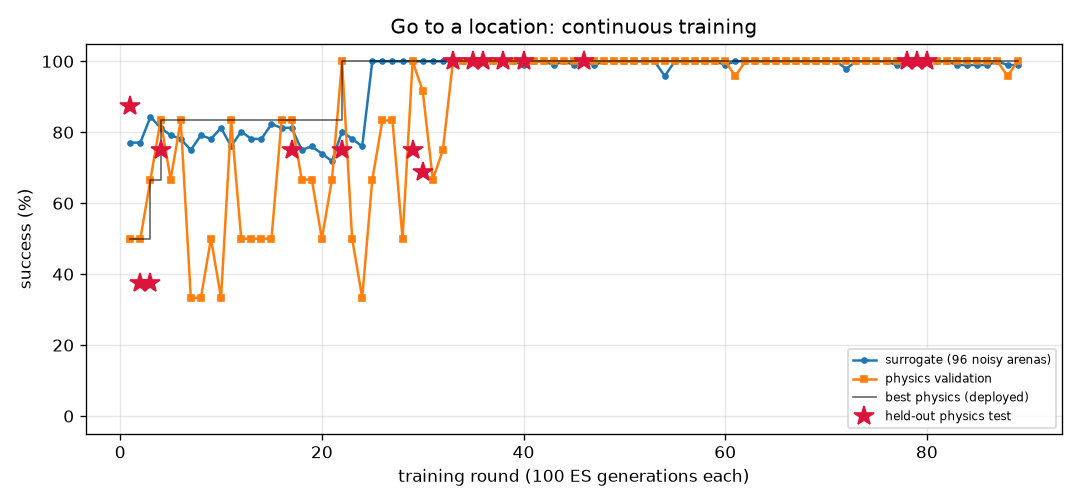
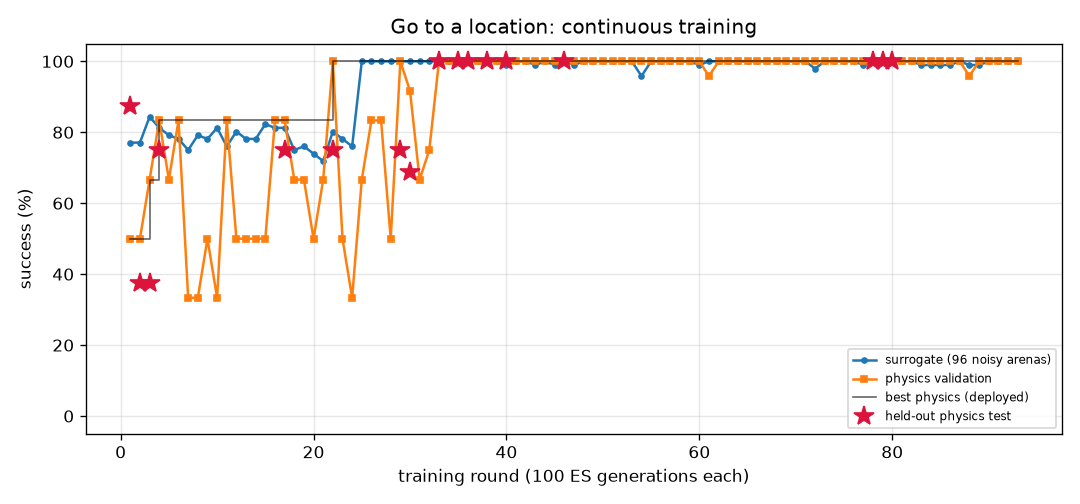
FlyLab: continuous training progress
- walk_forward: optimal, physics val 100% of 24, round 96
- turn: optimal, physics val 100% of 24, round 449
- goto: optimal, physics val 100% of 24, round 93
- odor_seek: optimal, physics val 100% of 24, round 94
- odor_avoid: optimal, physics val 100% of 24, round 484
- light_seek: optimal, physics val 100% of 24, round 282
- light_avoid: optimal, physics val 100% of 24, round 227

diff --git a/projects/09_flylab/training/goto/REPORT.md b/projects/09_flylab/training/goto/REPORT.md
@@ -1,14 +1,14 @@
 # Go to a location (`goto`) — training report
 
-*Auto-generated by `train_brains.py`, last updated 2026-10-14T23:34:05.*
+*Auto-generated by `train_brains.py`, last updated 2026-10-15T22:34:26.*
 
 ![curve](curve.png)
 
 | | |
 |---|---|
-| rounds | 89 |
-| ES generations | 8900 |
-| physics runs | 2022 |
+| rounds | 93 |
+| ES generations | 9300 |
+| physics runs | 2118 |
 | status | **optimal** |
 | best brain | round 80: physics validation **100%** on 24 arenas, surrogate 100% |
 | held-out physics test | **100%** on 32 unseen arenas (95% CI 89%-100%) (errors: [0.36, 0.41, 0.3, 0.45, 0.32, 0.33, 0.33, 0.31, 0.35, 0.36, 0.39, 0.36, 0.28, 0.31, 0.4, 0.39, 0.34, 0.39, 0.3, 0.34, 0.36, 0.36, 0.44, 0.34, 0.3, 0.33, 0.4, 0.33, 0.29, 0.43, 0.43, 0.39]) |
@@ -17,10 +17,6 @@ Physics error per arena: mm from target at the end (< 1.5 and standing still = s
 
 | round | level | gens | sigma | surrogate | physics val | val errors | test | note |
 |---:|---:|---:|---:|---:|---:|---|---:|---|
-| 50 | 3 | 5000 | 0.024 | 100% | 100% | [0.48, 0.46, 0.34, 0.39, 0.36, 0.37, 0.49, 0.39, 0.41, 0.36, 0.33, 0.38, 0.45, 0.35, 0.43, 0.43, 0.45, 0.37, 0.34, 0.41, 0.4, 0.35, 0.44, 0.37] |  | restart from best |
-| 51 | 3 | 5100 | 0.024 | 100% | 100% | [0.64, 0.58, 0.45, 0.54, 0.43, 0.5, 0.6, 0.46, 0.58, 0.46, 0.51, 0.53, 0.6, 0.45, 0.47, 0.51, 0.63, 0.54, 0.45, 0.56, 0.49, 0.46, 0.62, 0.51] |  |  |
-| 52 | 3 | 5200 | 0.024 | 100% | 100% | [0.79, 0.77, 0.64, 0.69, 0.66, 0.68, 0.76, 0.68, 0.72, 0.65, 0.73, 0.68, 0.73, 0.65, 0.67, 0.67, 0.79, 0.69, 0.65, 0.71, 0.66, 0.64, 0.78, 0.67] |  |  |
-| 53 | 3 | 5300 | 0.024 | 100% | 100% | [0.58, 0.54, 0.42, 0.51, 0.48, 0.48, 0.58, 0.44, 0.55, 0.43, 0.47, 0.5, 0.55, 0.4, 0.43, 0.46, 0.56, 0.49, 0.42, 0.52, 0.44, 0.43, 0.55, 0.49] |  |  |
 | 54 | 3 | 5400 | 0.024 | 96% | 100% | [0.2, 0.24, 0.18, 0.23, 0.19, 0.2, 0.23, 0.25, 0.25, 0.19, 0.17, 0.2, 0.24, 0.2, 0.2, 0.23, 0.22, 0.21, 0.19, 0.24, 0.24, 0.17, 0.2, 0.21] |  | restart from best |
 | 55 | 3 | 5500 | 0.024 | 100% | 100% | [0.78, 0.74, 0.6, 0.62, 0.76, 0.61, 0.79, 0.64, 0.65, 0.61, 0.71, 0.62, 0.68, 0.61, 0.66, 0.68, 0.76, 0.66, 0.6, 0.67, 0.67, 0.62, 0.73, 0.61] |  |  |
 | 56 | 3 | 5600 | 0.024 | 100% | 100% | [0.72, 0.69, 0.54, 0.56, 0.69, 0.55, 0.72, 0.58, 0.61, 0.55, 0.64, 0.56, 0.64, 0.53, 0.59, 0.63, 0.71, 0.58, 0.54, 0.62, 0.6, 0.56, 0.66, 0.54] |  |  |
@@ -57,3 +53,7 @@ Physics error per arena: mm from target at the end (< 1.5 and standing still = s
 | 87 | 3 | 8700 | 0.025 | 100% | 100% | [0.54, 0.52, 0.39, 0.44, 0.39, 0.43, 0.47, 0.44, 0.51, 0.4, 0.39, 0.43, 0.52, 0.43, 0.48, 0.45, 0.55, 0.43, 0.38, 0.49, 0.44, 0.4, 0.56, 0.45] |  |  |
 | 88 | 3 | 8800 | 0.024 | 99% | 96% | [0.64, 0.65, 0.59, 0.59, 0.51, 0.58, 0.66, 0.66, 0.68, 0.53, 0.51, 0.58, 0.66, 0.53, 0.56, 0.58, 0.68, 0.6, 0.52, 0.62, 0.57, 0.54, 0.64, 0.59] |  | restart from best |
 | 89 | 3 | 8900 | 0.024 | 99% | 100% | [0.53, 0.45, 0.35, 0.42, 0.34, 0.38, 0.52, 0.41, 0.44, 0.36, 0.35, 0.42, 0.48, 0.34, 0.41, 0.4, 0.51, 0.39, 0.35, 0.47, 0.37, 0.39, 0.49, 0.4] |  |  |
+| 90 | 3 | 9000 | 0.025 | 100% | 100% | [0.53, 0.5, 0.55, 0.47, 0.38, 0.44, 0.5, 0.5, 0.52, 0.41, 0.39, 0.44, 0.52, 0.42, 0.45, 0.45, 0.53, 0.44, 0.38, 0.49, 0.43, 0.4, 0.54, 0.46] |  |  |
+| 91 | 3 | 9100 | 0.024 | 100% | 100% | [0.51, 0.47, 0.46, 0.45, 0.39, 0.41, 0.51, 0.45, 0.46, 0.39, 0.39, 0.43, 0.49, 0.35, 0.46, 0.41, 0.51, 0.39, 0.38, 0.46, 0.38, 0.39, 0.49, 0.42] |  |  |
+| 92 | 3 | 9200 | 0.024 | 100% | 100% | [0.76, 0.72, 0.6, 0.63, 0.53, 0.62, 0.77, 0.62, 0.64, 0.54, 0.52, 0.6, 0.7, 0.49, 0.58, 0.6, 0.71, 0.63, 0.55, 0.65, 0.58, 0.53, 0.71, 0.61] |  | restart from best |
+| 93 | 3 | 9300 | 0.024 | 100% | 100% | [0.53, 0.52, 0.4, 0.48, 0.39, 0.45, 0.49, 0.48, 0.53, 0.42, 0.4, 0.44, 0.53, 0.43, 0.47, 0.47, 0.56, 0.44, 0.4, 0.52, 0.46, 0.43, 0.55, 0.47] |  |  |

diff --git a/projects/09_flylab/training/light_seek/REPORT.md b/projects/09_flylab/training/light_seek/REPORT.md
@@ -1,14 +1,14 @@
 # Walk toward light (`light_seek`) — training report
 
-*Auto-generated by `train_brains.py`, last updated 2026-10-15T21:53:46.*
+*Auto-generated by `train_brains.py`, last updated 2026-10-15T22:31:52.*
 
 ![curve](curve.png)
 
 | | |
 |---|---|
-| rounds | 279 |
-| ES generations | 27900 |
-| physics runs | 3480 |
+| rounds | 282 |
+| ES generations | 28200 |
+| physics runs | 3552 |
 | status | **optimal** |
 | best brain | round 277: physics validation **100%** on 24 arenas, surrogate 100% |
 | held-out physics test | **100%** on 32 unseen arenas (95% CI 89%-100%) (errors: [0.47, 0.55, 0.55, 0.55, 0.5, 0.56, 0.47, 0.53, 0.52, 0.53, 0.51, 0.53, 0.51, 0.53, 0.55, 0.91, 0.47, 0.51, 0.54, 0.48, 0.53, 0.53, 0.55, 0.48, 0.55, 0.48, 0.51, 0.51, 0.5, 0.5, 0.47, 0.56]) |
@@ -17,9 +17,6 @@ Physics error per arena: mm from target at the end (< 1.5 and standing still = s
 
 | round | level | gens | sigma | surrogate | physics val | val errors | test | note |
 |---:|---:|---:|---:|---:|---:|---|---:|---|
-| 240 | 3 | 24000 | 0.024 | 100% | 100% | [0.56, 0.48, 0.62, 0.67, 0.53, 0.55, 0.57, 0.62, 0.65, 0.57, 0.55, 0.44, 0.53, 0.61, 0.6, 0.46, 0.49, 0.63, 0.44, 0.86, 0.59, 0.49, 0.54, 0.92] |  |  |
-| 241 | 3 | 24100 | 0.024 | 100% | 100% | [0.44, 0.45, 0.43, 0.48, 0.58, 0.48, 0.43, 0.47, 0.46, 0.49, 0.45, 0.44, 0.49, 0.62, 0.44, 0.43, 0.5, 0.44, 0.46, 0.52, 0.65, 0.4, 0.41, 0.92] |  |  |
-| 242 | 3 | 24200 | 0.024 | 100% | 100% | [0.49, 0.5, 0.49, 0.51, 0.91, 1.37, 0.97, 0.51, 0.49, 0.5, 0.52, 0.62, 0.54, 0.49, 0.48, 0.51, 0.49, 0.52, 1.17, 0.56, 0.52, 0.58, 0.65, 0.53] |  |  |
 | 243 | 3 | 24300 | 0.024 | 100% | 100% | [0.56, 0.51, 0.5, 0.48, 0.51, 0.5, 0.6, 0.97, 0.49, 0.46, 0.51, 0.55, 0.55, 0.49, 0.5, 0.56, 0.5, 0.52, 0.54, 0.51, 0.59, 0.61, 0.56, 0.49] |  | restart from best |
 | 244 | 3 | 24400 | 0.024 | 100% | 100% | [0.39, 0.41, 0.48, 0.4, 0.49, 0.45, 0.43, 0.39, 0.49, 0.41, 0.39, 0.39, 0.43, 0.76, 0.61, 0.42, 0.41, 0.42, 0.56, 0.86, 0.47, 0.44, 0.4, 0.54] |  |  |
 | 245 | 3 | 24500 | 0.024 | 100% | 100% | [0.44, 0.38, 0.45, 0.36, 0.38, 0.44, 0.41, 0.38, 0.67, 0.98, 0.5, 0.64, 0.44, 0.41, 0.42, 0.38, 0.4, 0.41, 0.64, 0.46, 0.43, 0.36, 0.37, 0.37] |  |  |
@@ -57,3 +54,6 @@ Physics error per arena: mm from target at the end (< 1.5 and standing still = s
 | 277 | 3 | 27700 | 0.024 | 100% | 100% | [0.51, 0.54, 0.5, 0.49, 0.49, 0.5, 0.48, 0.49, 0.54, 0.5, 0.48, 0.55, 0.51, 0.56, 0.47, 0.52, 0.54, 0.5, 0.52, 0.58, 0.53, 0.58, 0.55, 0.52] | 100% | new best |
 | 278 | 3 | 27800 | 0.024 | 100% | 100% | [0.48, 0.56, 0.59, 0.58, 0.48, 0.47, 0.58, 0.59, 0.57, 0.63, 0.47, 0.65, 0.62, 0.47, 0.63, 0.61, 0.49, 0.48, 0.61, 0.98, 0.7, 0.6, 0.58, 0.59] |  |  |
 | 279 | 3 | 27900 | 0.024 | 100% | 100% | [0.53, 0.56, 0.56, 0.54, 0.55, 0.53, 0.53, 0.56, 0.52, 0.61, 0.67, 0.56, 0.52, 0.52, 0.62, 0.57, 0.54, 0.59, 0.53, 0.59, 0.52, 0.63, 0.56, 0.58] |  |  |
+| 280 | 3 | 28000 | 0.024 | 100% | 100% | [0.58, 0.53, 0.57, 0.54, 0.5, 0.49, 0.51, 0.52, 0.54, 0.51, 0.5, 0.5, 0.49, 0.49, 0.58, 0.5, 0.56, 0.62, 0.5, 0.55, 0.55, 0.52, 0.5, 0.51] |  |  |
+| 281 | 3 | 28100 | 0.024 | 100% | 100% | [0.5, 0.59, 0.43, 0.53, 0.49, 0.88, 0.57, 0.56, 1.27, 0.53, 0.49, 0.5, 0.48, 0.51, 0.51, 0.56, 0.5, 0.54, 0.55, 0.45, 1.01, 1.3, 0.47, 0.48] |  | restart from best |
+| 282 | 3 | 28200 | 0.024 | 100% | 100% | [0.42, 0.44, 0.43, 0.46, 0.42, 0.59, 0.47, 0.42, 0.42, 0.44, 0.42, 0.42, 0.43, 0.5, 0.47, 0.43, 0.42, 0.43, 0.41, 0.43, 0.41, 0.42, 0.42, 0.49] |  |  |

diff --git a/projects/09_flylab/training/TRAINING.md b/projects/09_flylab/training/TRAINING.md
@@ -1,6 +1,6 @@
 # FlyLab brains — continuous training log
 
-*Auto-generated by `train_brains.py`, last updated 2026-10-15T21:53:46.*
+*Auto-generated by `train_brains.py`, last updated 2026-10-15T22:34:26.*
 
 Every skill has its own brain and its own training process: surrogate ES rounds, physics validation in MuJoCo, keep-the-best selection, and a held-out physics test that is never used for selection. See each skill's report for its full round-by-round history. Mastery is progressive: passing a level (100% physics validation, >=95% surrogate) doubles the validation and test arena sets; a brain is **optimal** once it holds up at level 3 (>=95% of 24 validation arenas) AND scores >=90% on the 32 held-out test arenas. Test columns show 95% Wilson confidence intervals.
 
@@ -8,8 +8,8 @@ Every skill has its own brain and its own training process: surrogate ES rounds,
 |---|---:|---:|---:|---:|---:|---:|---|
 | [Walk forward](walk_forward/REPORT.md) | 96 | 9600 | 2254 | 100% | 100% of 24 | 100% of 32 (CI 89-100%) | **optimal** |
 | [Turn in place](turn/REPORT.md) | 449 | 44900 | 11022 | 100% | 100% of 24 | 97% of 32 (CI 84-99%) | **optimal** |
-| [Go to a location](goto/REPORT.md) | 89 | 8900 | 2022 | 100% | 100% of 24 | 100% of 32 (CI 89-100%) | **optimal** |
+| [Go to a location](goto/REPORT.md) | 93 | 9300 | 2118 | 100% | 100% of 24 | 100% of 32 (CI 89-100%) | **optimal** |
 | [Find food by smell](odor_seek/REPORT.md) | 94 | 9400 | 1590 | 100% | 100% of 24 | 100% of 32 (CI 89-100%) | **optimal** |
 | [Escape a bad smell](odor_avoid/REPORT.md) | 484 | 48400 | 8922 | 97% | 100% of 24 | 97% of 32 (CI 84-99%) | **optimal** |
-| [Walk toward light](light_seek/REPORT.md) | 279 | 27900 | 3480 | 100% | 100% of 24 | 100% of 32 (CI 89-100%) | **optimal** |
+| [Walk toward light](light_seek/REPORT.md) | 282 | 28200 | 3552 | 100% | 100% of 24 | 100% of 32 (CI 89-100%) | **optimal** |
 | [Hide from light](light_avoid/REPORT.md) | 227 | 22700 | 5720 | 100% | 100% of 24 | 100% of 32 (CI 89-100%) | **optimal** |
